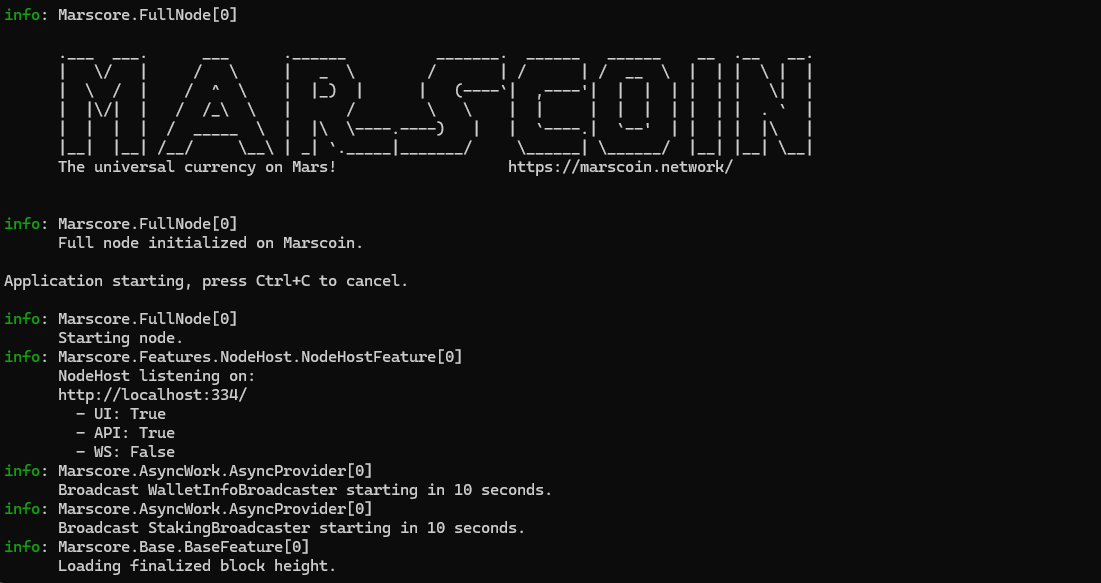
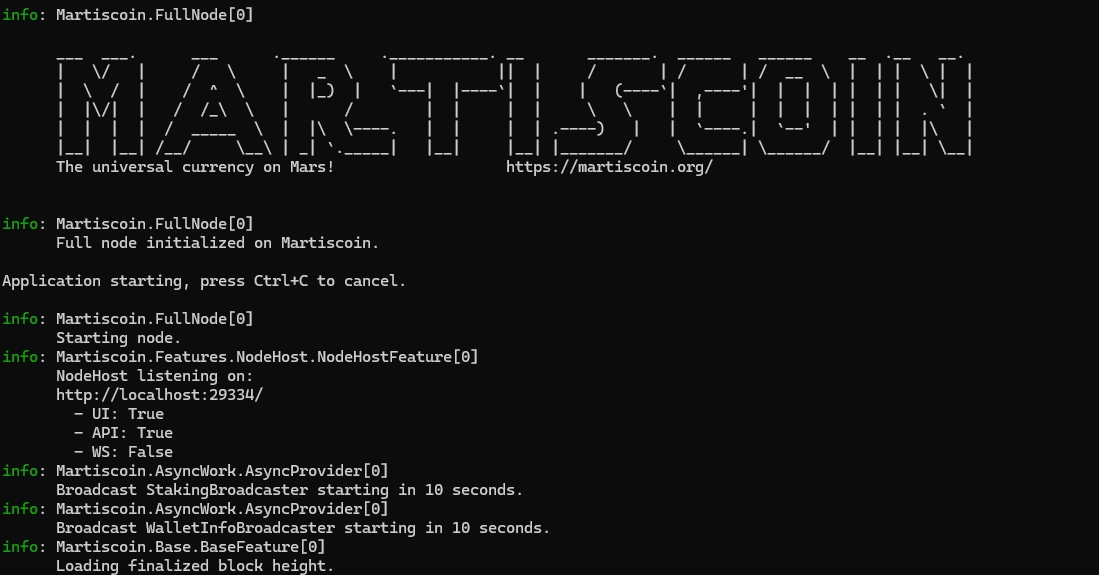
update docs info

diff --git a/roadmap.md b/roadmap.md
@@ -9,6 +9,27 @@ order: 100
 
 Mainnet launch and listing, improving network to ensure scalable growth,promote in more markets.
 
+Complete network test setup and complete at least two rounds of testing
+
+#### Test Round 1 [!badge completed]
+
+- Complete basic test verification, verify the POW algorithm, secondary workload proof, and whether the block pool reward distribution mechanism is complete.
+
+- Verify that the browser is working properly.
+
+#### Test Round 2 [!badge coming soon]
+
+- Complete the stake verification validity and rationality.
+
+#### Mainnet
+
+- Launch the mainnet and ensure that testnet incentives are distributed through airdrops.
+
+- List on an exchange, at least one.
+
+- Listing steps: [!badge tradeogre.com] > [!badge xeggex.com] > [!badge coingecko.com] > [!badge coinmarketcap.com] > [!badge Big Centralized exchange]
+
+
 ## Q4 2024
 
 Write a decentralized consensus algorithm (block allocation mechanism), reconstruct the block browser, and release the test network.

diff --git a/whitepaper.md b/whitepaper.md
@@ -96,10 +96,10 @@ About the twice of proof of work
 ## Emission Scheme
 
 !!!
-Martiscoin has a fixed maximum supply of 21M MSC.Mining block starts at around 1 MSC.The reward is automatically halved after every 10,000,000 blocks mined - this happens approximately every 5 years based on the 15 second interval it typically takes to mine a block.
+Martiscoin has a fixed maximum supply of 21M MSC.Mining block starts at around 2 MSC.The reward is automatically halved after every 10,000,000 blocks mined - this happens approximately every 5 years based on the 30 second interval it typically takes to mine a block.
 !!!
 
-Every day approximately 60/15 * 60 * 24 = 5760 blocks and 5760 MSC
+Every day approximately 60/30 * 60 * 24 * 2 = 5760 blocks and 5760 MSC
 
 #### The emission for the next 10 years is summarized in the following table
 

diff --git a/tokenomics.md b/tokenomics.md
@@ -11,7 +11,7 @@ Martiscoin has a fixed maximum supply of 21M MSC.
 
 ## Mining reward
 
-Mining block starts at around 1 MSC.The reward is automatically halved after every 10,000,000 blocks mined - this happens approximately every 5 years based on the 15 second interval it typically takes to mine a block.
+Mining block starts at around 2 MSC.The reward is automatically halved after every 10,000,000 blocks mined - this happens approximately every 5 years based on the 30 second interval it typically takes to mine a block.
 
 ## Mining Reward distribution
 

diff --git a/guides/configuration.md b/guides/configuration.md
@@ -71,3 +71,28 @@ rpcallowip=127.0.0.1
 rpcuser=
 rpcpassword=
 ```
+
+
+## Whitelist
+
+Whitelist peers having the given IP:port address, both inbound or outbound. Can be specified multiple times.
+
+```
+whitelist=<ip:port>
+```
+
+## Outbound Connections
+
+The maximum number of outbound connections. Default 16.
+
+```
+maxoutboundconnections=<number>
+```
+
+## Inbound Connections
+
+The maximum number of inbound connections. Default 109.
+
+```
+maxinboundconnections=<number>
+```

diff --git a/faq.md b/faq.md
@@ -46,7 +46,7 @@ Here is the estimated circulating supply for the next 5 years:
 
 》Fifth year: ~10,502,000 MSC circulating supply
 
-Note: The maximum supply is 21M MSC, and the reward of 1 MSC per block is halved every 5 years.
+Note: The maximum supply is 21M MSC, and the reward of 2 MSC per block is halved every 5 years.
 
 ## I want to work with the team. How can I apply?
 

diff --git a/GettingStarted/Build-from-source-code.md b/GettingStarted/Build-from-source-code.md
@@ -48,4 +48,4 @@ git clone https://github.com/martiscoin/node.git
 
 #### Compiling
 
-Open the [!badge Marscore.sln] file using [!badge Visual Studio 2022], set [!badge Marscore.Node] as the startup project, and click run.
+Open the [!badge Martiscoin.sln] file using [!badge Visual Studio 2022], set [!badge Martiscoin.Node] as the startup project, and click run.

diff --git a/guides/mine.md b/guides/mine.md
@@ -50,3 +50,5 @@ opencldevice=
 ## Monitor your miner
 
 You can monitor your miner by reviewing the logs in the terminal. Theses logs provide real-time updates on your miner's status, including whether you have found a block, if it has been accepted or rejected, and your current hashrate.
+
+![Mining](/static/mine-1.png)

diff --git a/link.md b/link.md
@@ -25,9 +25,14 @@ order: 2000
 
 ## Bitcointalk
 [Welcome to the Martiscoin](https://bitcointalk.org/index.php?topic=5525678.0)
+
 ## Discord
 
 [https://discord.gg/HSk92SEM83](https://discord.gg/HSk92SEM83)
+
+## Telegram
+
+[https://t.me/martiscoin](https://t.me/martiscoin)
 
 ## Twitter
 

diff --git a/README.md b/README.md
@@ -34,16 +34,9 @@ RPC | 19332
 
 Type   | Port
 :---   | :---:
-P2P | 29433
-API | 29434
-RPC | 29432
-
-#### Add Node
-
-```
-addnode=148.66.155.42
-addnode=37.148.205.6
-```
+P2P | 39433
+API | 39434
+RPC | 39432
 
 ## Quick Facts :zap::zap::zap:
 
